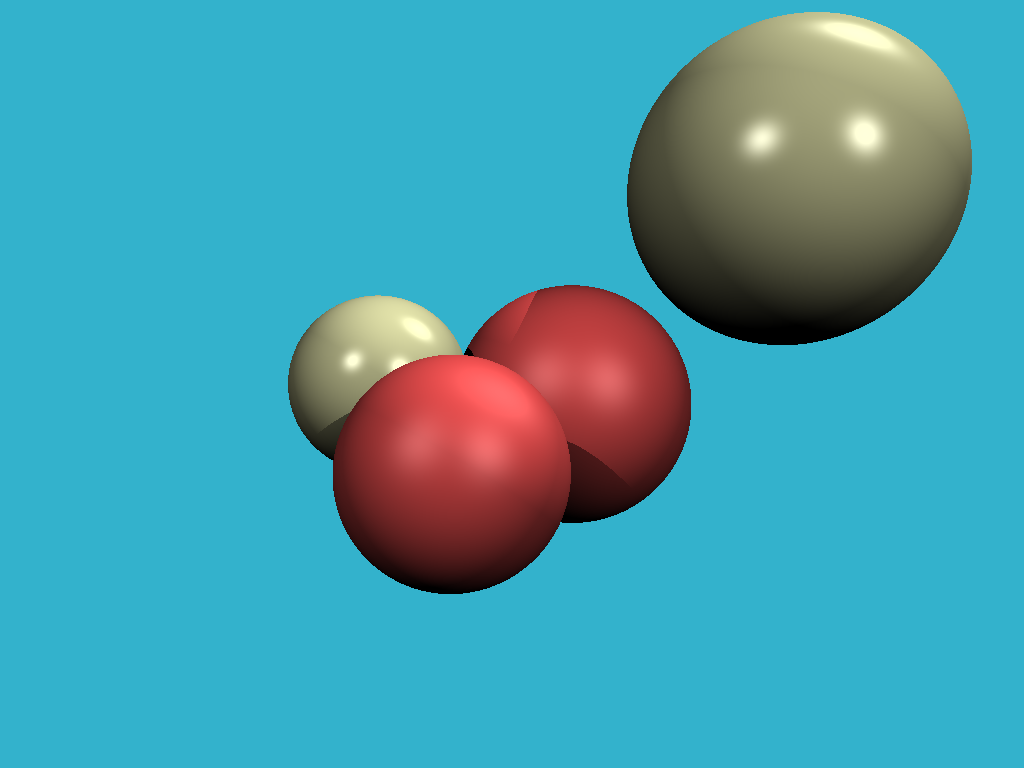
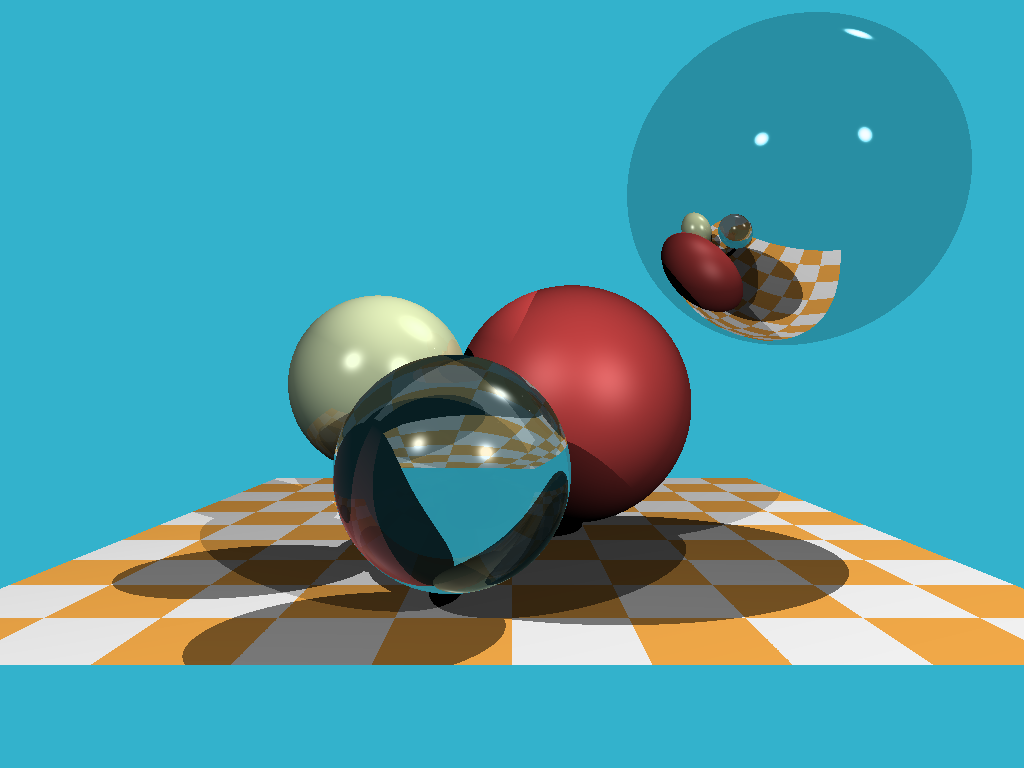
checkerboard

diff --git a/src/main.cpp b/src/main.cpp
@@ -13,48 +13,91 @@ vec3f reflect(const vec3f& I, const vec3f& N) {
 		return I - N*2.f*(I*N);
 }
 
+vec3f refract(const vec3f& I, const vec3f& N, const float refractive_index) {
+    float cosi =  - std::max<float>(-1.f, std::min(1.f, I*N));
+    float etai = 1, etat = refractive_index;
+
+    vec3f n = N;
+
+    if (cosi < 0) {
+        cosi = -cosi;
+        std::swap(etai, etat);
+        n = -N;
+    }
+
+    float eta = etai / etat;
+    float k = 1 - eta * eta * (1 - cosi * cosi);
+
+    return k < 0 ? vec3f(0, 0, 0) : I * eta + n * (eta * cosi - sqrtf(k));
+}
+
 bool scene_intersect(const vec3f& origin, const vec3f& direction, const std::vector<Sphere>& spheres,
-vec3f& hit, vec3f& n, Material& material) {
+vec3f& hit, vec3f& N, Material& material) {
     float spheres_dist = std::numeric_limits<float>::max();
     for (size_t i = 0; i < spheres.size(); ++i) {
         float dist_i;
         if (spheres[i].ray_intersect(origin, direction, dist_i) && dist_i < spheres_dist) {
             spheres_dist = dist_i;
             hit = origin + direction*dist_i; // the ray that hit
-            n = (hit - spheres[i].center).normalize(); // surface normal
+            N = (hit - spheres[i].center).normalize(); // surface normal
             material = spheres[i].material;
         }
     }
-    return spheres_dist < 1000;
+    
+    float checkerboard_dist = std::numeric_limits<float>::max();
+
+    if (fabs(direction.y) > 1e-3) {
+        float d = -(origin.y + 4) / direction.y;
+        vec3f pt = origin + direction * d;
+            if (d>0 && fabs(pt.x)<10 && pt.z<-10 && pt.z>-30 && d<spheres_dist) {
+                checkerboard_dist = d;
+                hit = pt;
+                N = vec3f(0,1,0);
+                material.diffuse_color = (int(.5*hit.x+1000) + int(.5*hit.z)) & 1 ? vec3f(1,1,1) : vec3f(1, .7, .3);
+                material.diffuse_color = material.diffuse_color*.3;
+        }
+        
+    }
+    return std::min(spheres_dist, checkerboard_dist) < 1000;
 }
 
-vec3f cast_ray(const vec3f& origin, const vec3f& direction, const std::vector<Sphere>& spheres, const std::vector<Light>& lights) {
-	vec3f point, n;
+vec3f cast_ray(const vec3f& origin, const vec3f& direction, const std::vector<Sphere>& spheres, const std::vector<Light>& lights,
+ size_t depth = 0) {
+	vec3f point, N;
     Material material;
 
     float diffuse_light_intensity = 0., specular_light_intensity = 0.;
 
-    if (!scene_intersect(origin, direction, spheres, point, n, material)) {
+    if (depth > 4 || !scene_intersect(origin, direction, spheres, point, N, material)) {
         return vec3f(0.2, 0.7, 0.8);
     }
+
+    vec3f reflect_dir = reflect(direction, N).normalize();
+    vec3f refract_dir = refract(direction, N, material.refractive_index).normalize();
+    
+    vec3f reflect_orig = reflect_dir * N < 0 ? point - N * 1e-3 : point + N * 1e-3;
+    vec3f refract_orig = refract_dir * N < 0 ? point - N * 1e-3 : point + N * 1e-3;
+
+    vec3f reflect_color = cast_ray(reflect_orig, reflect_dir, spheres, lights, depth + 1);
+    vec3f refract_color = cast_ray(refract_orig, refract_dir, spheres, lights, depth + 1);
     
     for (size_t i = 0; i < lights.size(); ++i) {
         vec3f light_dir = (lights[i].position - point).normalize();
         float light_distance = (lights[i].position - point).norm();
 
-        vec3f shadow_origin = light_dir * n < 0 ? point - n * 1e-3 : point + n * 1e-3; // check if the point lies in the shadow of lights[i] 
+        vec3f shadow_origin = light_dir * N < 0 ? point - N * 1e-3 /* pointing in different directions*/: point + N * 1e-3; // check if the point lies in the shadow of lights[i] 
         vec3f shadow_point, shadow_N;
         Material tmp_material;
 
-        if (scene_intersect(shadow_origin, light_dir, spheres, shadow_point, shadow_N, tmp_material))
+        if (scene_intersect(shadow_origin, light_dir, spheres, shadow_point, shadow_N, tmp_material) && (shadow_point - shadow_origin).norm() < light_distance)
             continue;
 
-        diffuse_light_intensity += lights[i].intensity * std::max<float>(0., light_dir * n);
-        specular_light_intensity += powf(std::max(0.f, reflect(light_dir, n)* direction), material.specular_exponent)*lights[i].intensity;
+        diffuse_light_intensity += lights[i].intensity * std::max<float>(0., light_dir * N);
+        specular_light_intensity += powf(std::max(0.f, reflect(light_dir, N)* direction), material.specular_exponent)*lights[i].intensity;
     }
 
-    return material.diffuse_color * diffuse_light_intensity * material.albedo[0] + vec3f{1., 1., 1.}
-    * specular_light_intensity * material.albedo[1];
+    return material.diffuse_color * diffuse_light_intensity * material.albedo[0] + vec3f(1., 1., 1.)
+    * specular_light_intensity * material.albedo[1] + reflect_color*material.albedo[2] + refract_color*material.albedo[3];
 }
 
 void render(const std::vector<Sphere>& spheres, std::vector<Light>& lights) {
@@ -91,14 +134,16 @@ void render(const std::vector<Sphere>& spheres, std::vector<Light>& lights) {
 }
 
 int main() {
-    Material      ivory(vec2f(0.6, 0.3), vec3f(0.4, 0.4, 0.3), 50.);
-    Material red_rubber(vec2f(0.9, 0.1) ,vec3f(0.3, 0.1, 0.1), 10.);
+    Material      ivory(1.0, vec4f(0.6,  0.3, 0.1, 0.0), vec3f(0.4, 0.4, 0.3),   50.);
+    Material      glass(1.5, vec4f(0.0,  0.5, 0.1, 0.8), vec3f(0.6, 0.7, 0.8),  125.);
+    Material red_rubber(1.0, vec4f(0.9,  0.1, 0.0, 0.0), vec3f(0.3, 0.1, 0.1),   10.);
+    Material     mirror(1.0, vec4f(0.0, 10.0, 0.8, 0.0), vec3f(1.0, 1.0, 1.0), 1425.);
 
     std::vector<Sphere> spheres;
     spheres.push_back(Sphere(vec3f(-3,    0,   -16), 2,      ivory));
-    spheres.push_back(Sphere(vec3f(-1.0, -1.5, -12), 2, red_rubber));
+    spheres.push_back(Sphere(vec3f(-1.0, -1.5, -12), 2,      glass));
     spheres.push_back(Sphere(vec3f( 1.5, -0.5, -18), 3, red_rubber));
-    spheres.push_back(Sphere(vec3f( 7,    5,   -18), 4,      ivory));
+    spheres.push_back(Sphere(vec3f( 7,    5,   -18), 4,     mirror));
 
     std::vector<Light> lights;
     lights.push_back(Light(vec3f{-20., 20, 20.}, 1.5));

diff --git a/src/shapes.h b/src/shapes.h
@@ -2,11 +2,19 @@
 
 #include "types.h"
 
-struct Material {
-	Material(const vec2f& a ,const vec3f& color, const float spec) : diffuse_color(color), albedo(a), specular_exponent(spec) {}
-	Material() : albedo(1, 0), diffuse_color(), specular_exponent() {}
+struct Light {
+    Light(const vec3f& p, const float& i) : position(p), intensity(i) {}
 
-	vec2f albedo;
+    vec3f position;
+    float intensity;
+};
+
+struct Material {
+	Material(const float r ,const vec4f& a ,const vec3f& color, const float spec) : refractive_index(r), diffuse_color(color), albedo(a), specular_exponent(spec) {}
+	Material() : refractive_index(1), albedo(1, 0, 0, 0), diffuse_color(), specular_exponent() {}
+
+	float refractive_index;
+	vec4f albedo;
 	vec3f diffuse_color;
 	float specular_exponent;
 };

diff --git a/src/types.h b/src/types.h
@@ -93,10 +93,3 @@ std::ostream& operator<<(std::ostream& out, const vec<DIM,T>& v) {
     }
     return out ;
 }
-
-struct Light {
-    Light(const vec3f& p, const float& i) : position(p), intensity(i) {}
-
-    vec3f position;
-    float intensity;
-};
